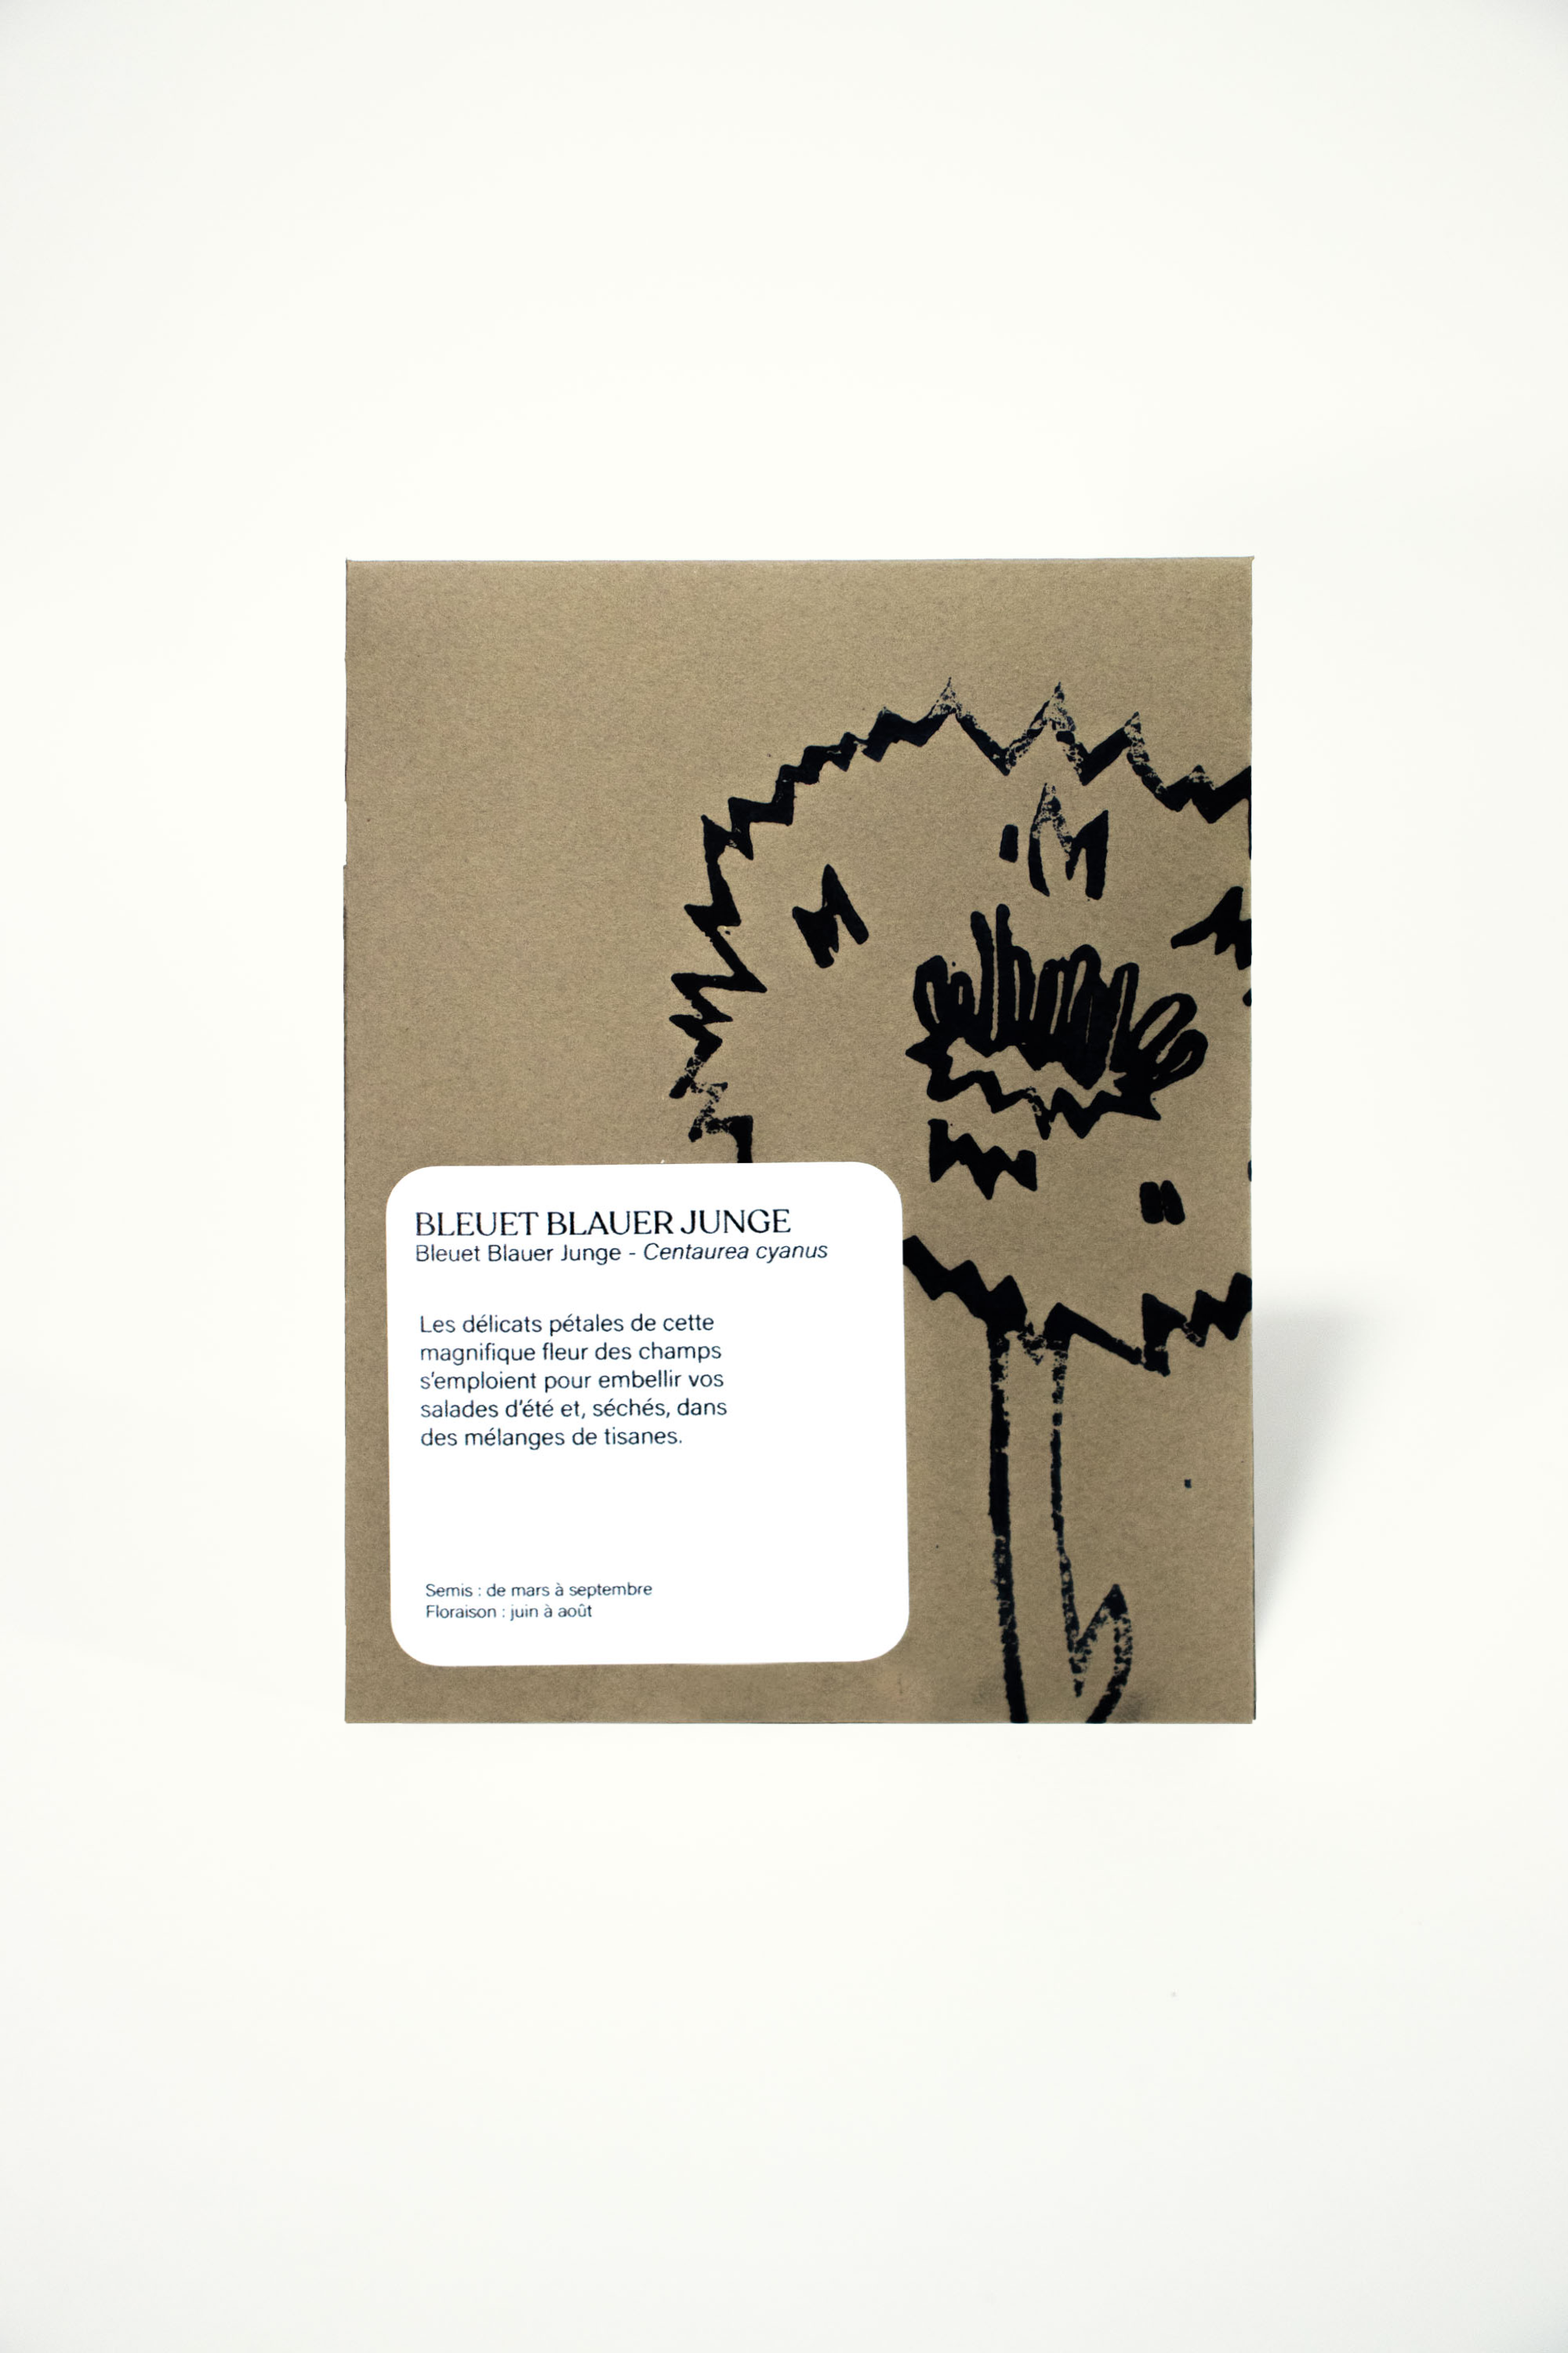
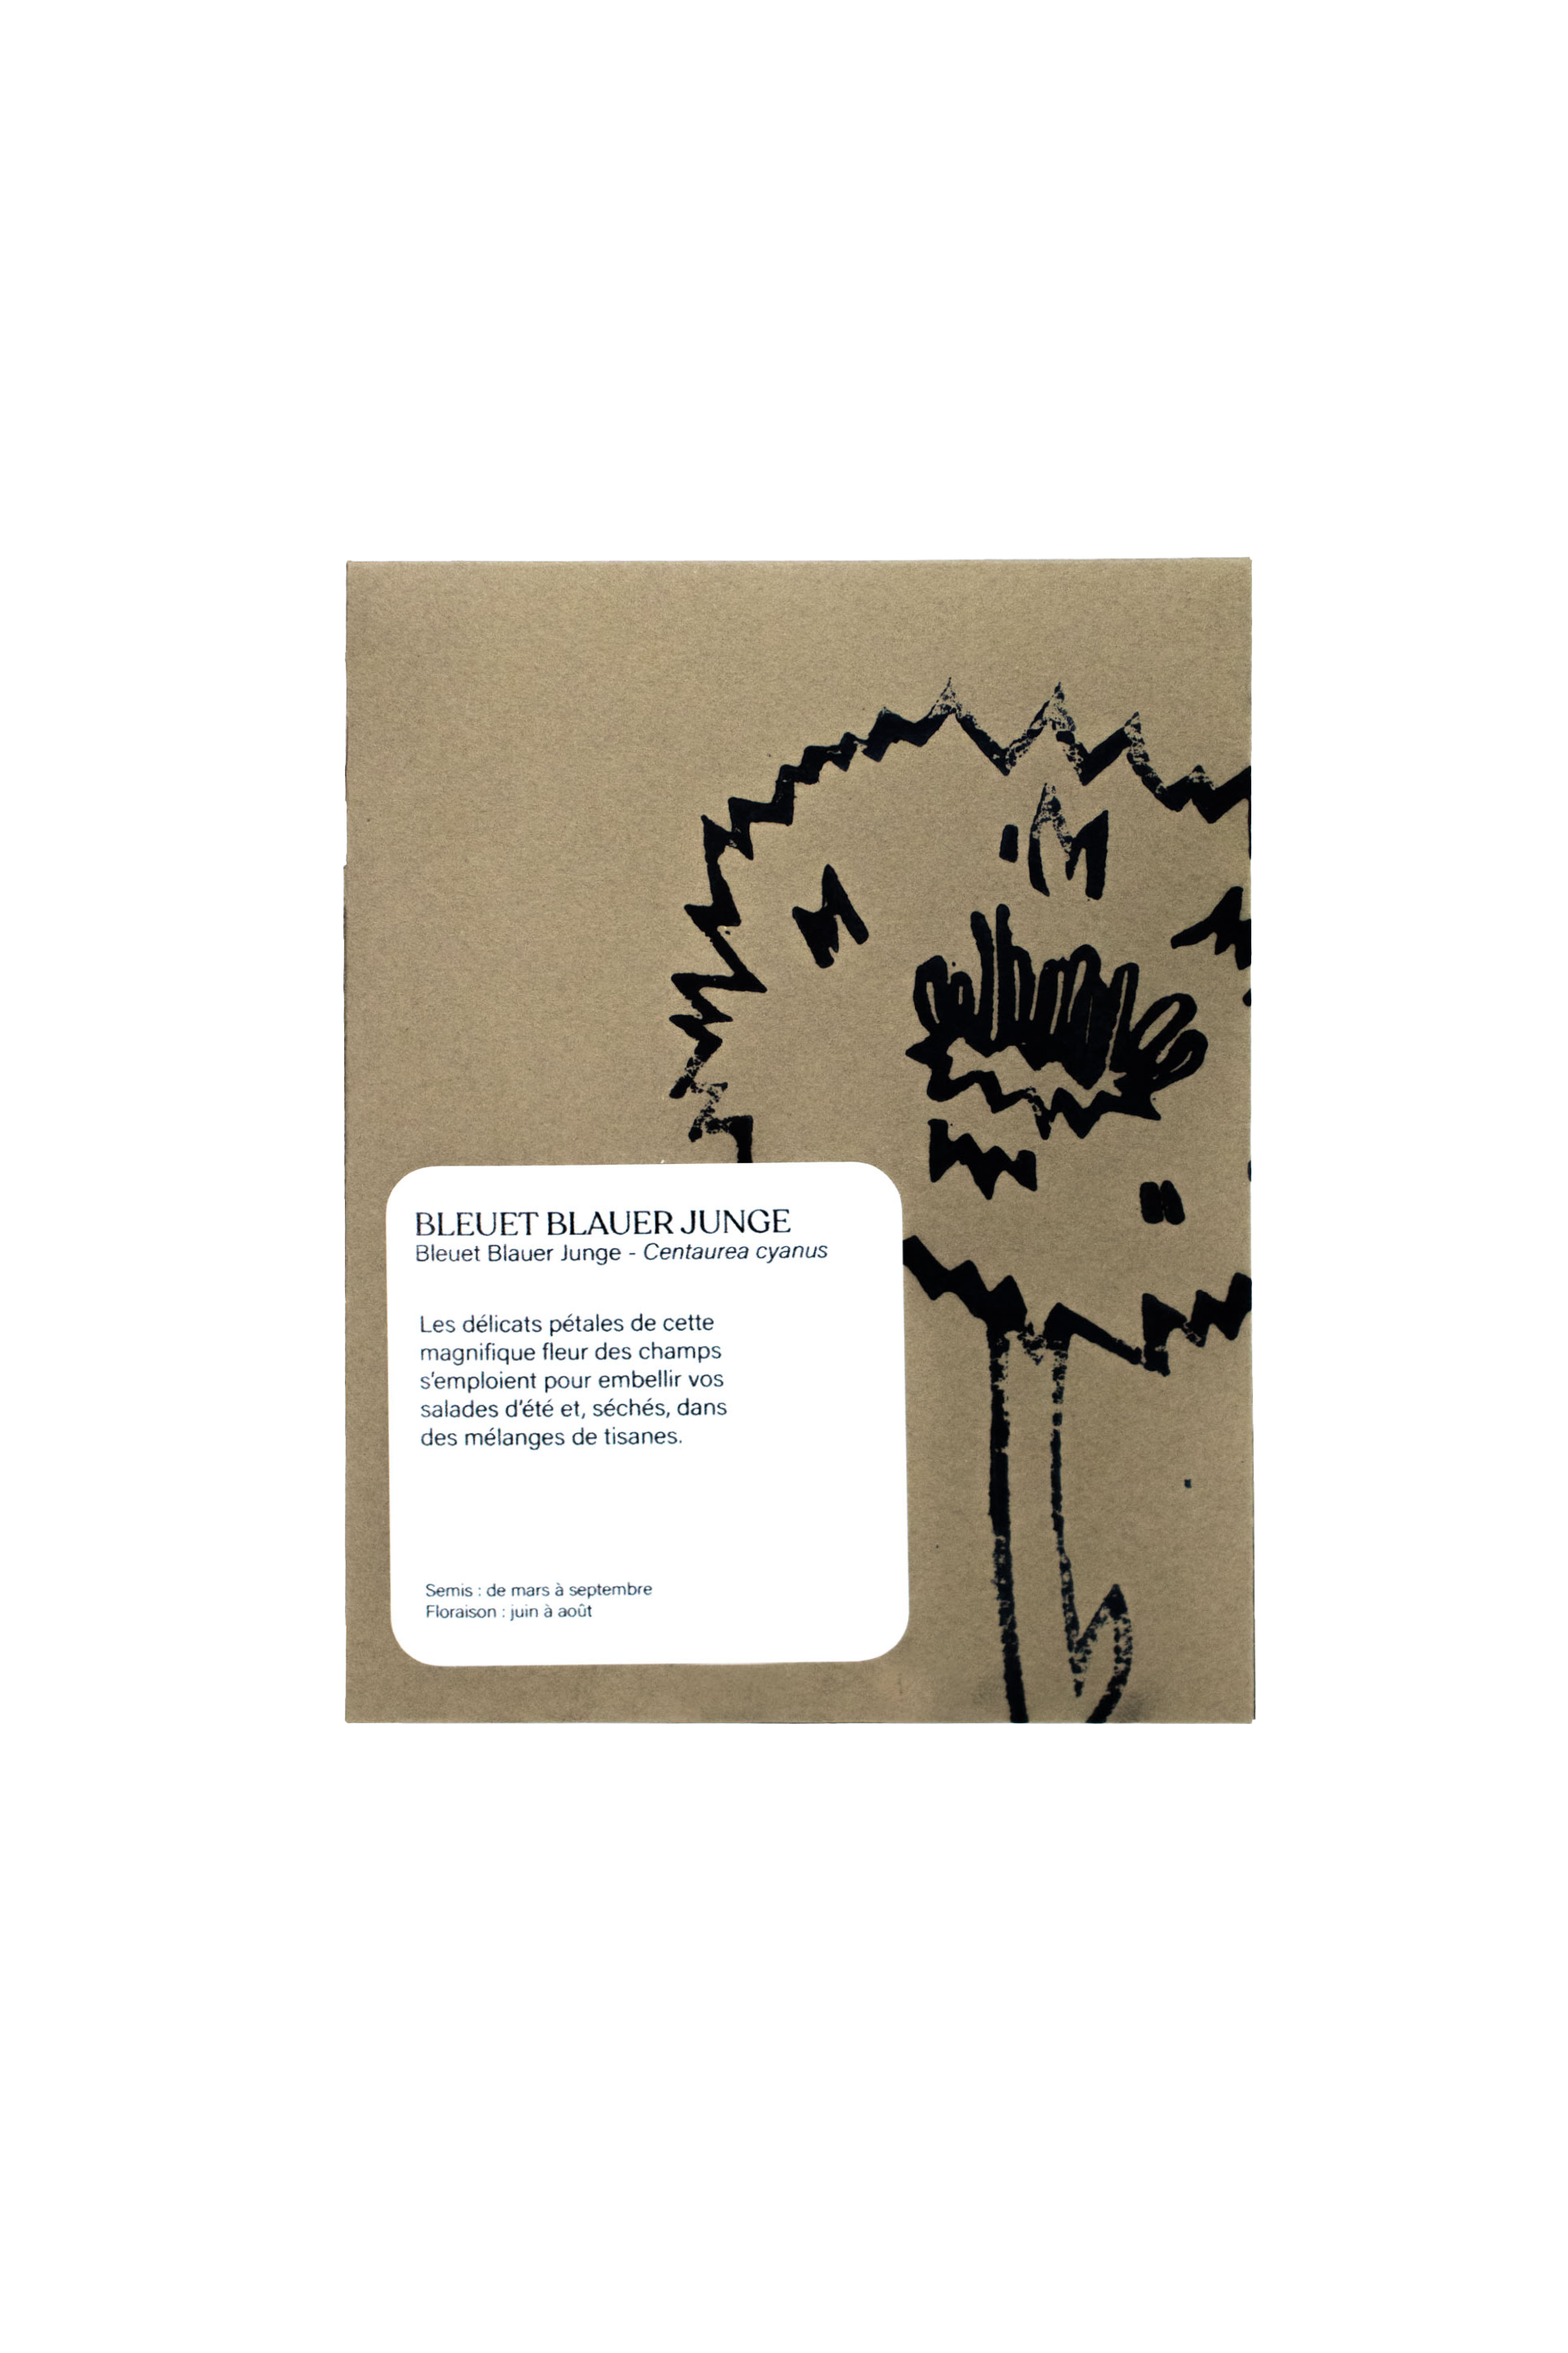
finished the product presentation cards

Changed region(s): [[0.775, 0.527, 0.868, 0.713], [0.93, 0.961, 1.0, 1.0], [0.961, 0.0, 1.0, 0.031]]

diff --git a/css/styles.css b/css/styles.css
@@ -22,6 +22,7 @@ header {
   padding: 20px 35px;
   position: sticky;
   top: 0;
+  z-index: 100;
 }
 
 header .logo {
@@ -77,18 +78,24 @@ h1 {
 .presentation-potimarron {
   margin-bottom: 100px;
   background-image: url(../img/potimarron.svg);
+  background-repeat: no-repeat;
+  background-position: center;
   padding: 65px 55px;
 }
 
 .presentation-haricot {
   margin-bottom: 100px;
   background-image: url(../img/haricot.svg);
+  background-repeat: no-repeat;
+  background-position: center;
   padding: 65px 55px;
 }
 
 .presentation-bleuet {
   margin-bottom: 50px;
   background-image: url(../img/bleuet.svg);
+  background-repeat: no-repeat;
+  background-position: center;
   padding: 65px 55px;
 }
 
@@ -113,7 +120,8 @@ h1 {
 }
 
 .presentation-produit img {
-  max-width: 165px;
+  max-width: 205px;
+  transform: translateX(-5px);
 }
 
 .carte {
@@ -125,7 +133,43 @@ h1 {
   background-color: #FEFEF8;
   border-top-left-radius: 50%;
   border-top-right-radius: 50%;
-  height: 275px;
+  height: 255px;
   max-width: 200px;
+  margin: auto;
+}
+
+.presentation-produit h2 {
+  font-family: "acumin-pro", sans-serif;
+  font-weight: 300;
+  font-style: normal;
+}
+
+.presentation-produit h3 {
+  font-family: "acumin-pro", sans-serif;
+  font-weight: 100;
+  font-style: normal;
+  padding-bottom: 20px;
+}
+
+.presentation-produit p {
+  font-family: "acumin-pro", sans-serif;
+  font-weight: 300;
+  font-style: normal;
+  padding-bottom: 50px;
+}
+
+footer {
+  background-color: #D7AB73;
+  padding: 20px 35px;
+}
+
+footer img {
+  max-width: 130px;
+}
+
+footer p {
+  font-family: "acumin-pro", sans-serif;
+  font-weight: 300;
+  font-style: normal;
 }
 

diff --git a/index.html b/index.html
@@ -4,7 +4,7 @@
     <meta charset="UTF-8" />
     <meta name="viewport" content="width=device-width, initial-scale=1.0" />
     <link rel="stylesheet" href="css/styles.css">
-    <link rel="stylesheet" href="https://use.typekit.net/iew2spt.css">
+    <link rel="stylesheet" href="https://use.typekit.net/dbg1xun.css">
     <title>Semences de pays</title>
   </head>
   <body>
